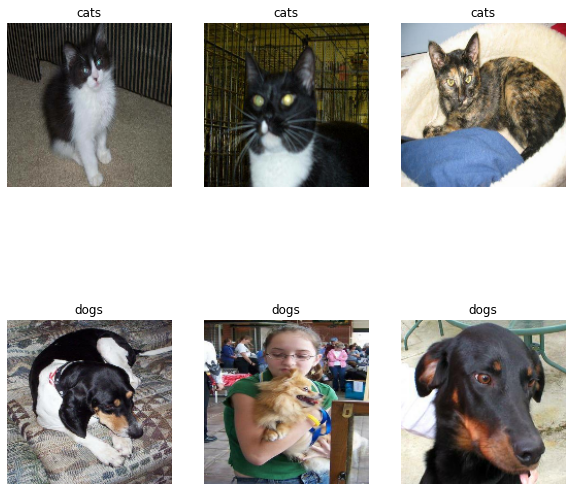
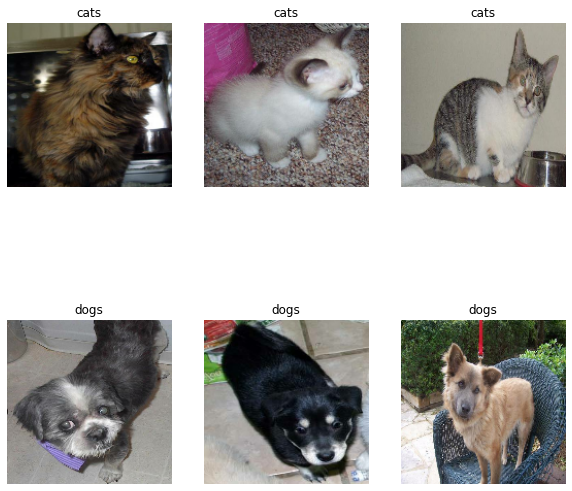
change pic

diff --git a/_posts/2022-05-06-hw3-Image-Classification.md b/_posts/2022-05-06-hw3-Image-Classification.md
@@ -101,29 +101,33 @@ Let's briefly explore our data set. **Write a function to create a two-row visua
 
 
 ```python
-class_names = train_dataset.class_names
+def print_cats_and_dogs(train_dataset):
+    class_names = train_dataset.class_names
 
-cat, dog, index = 0, 0, 0
-fig,ax = plt.subplots(2, 3, figsize=(10, 10))
-for images, labels in train_dataset.take(1):
-  for i in range (100):
-    if (class_names[labels[i]] == 'cats'):
-      if (cat >= 3):
-        continue
-      index = cat + 0
-      cat += 1
-    else:
-      if (dog >= 3):
-        continue
-      index = dog + 3
-      dog += 1
+    cat, dog, index = 0, 0, 0
+    fig,ax = plt.subplots(2, 3, figsize=(10, 10))
+    for images, labels in train_dataset.take(1):
+      for i in range (100):
+        if (class_names[labels[i]] == 'cats'):
+          if (cat >= 3):
+            continue
+          index = cat + 0
+          cat += 1
+        else:
+          if (dog >= 3):
+            continue
+          index = dog + 3
+          dog += 1
 
-    ax.flat[index].imshow(images[i].numpy().astype("uint8"))
-    ax.flat[index].set(title=class_names[labels[i]])
-    ax.flat[index].axis("off")
+        ax.flat[index].imshow(images[i].numpy().astype("uint8"))
+        ax.flat[index].set(title=class_names[labels[i]])
+        ax.flat[index].axis("off")
 
-    if (index == 5): # when we have 6 images, break the loop
-      break
+        if (index == 5): # when we have 6 images, break the loop
+          break
+
+
+print_cats_and_dogs(train_dataset)
 ```
 
 ![png]({{ site.baseurl }}/images/hw3_pic/output_8_0.png)
